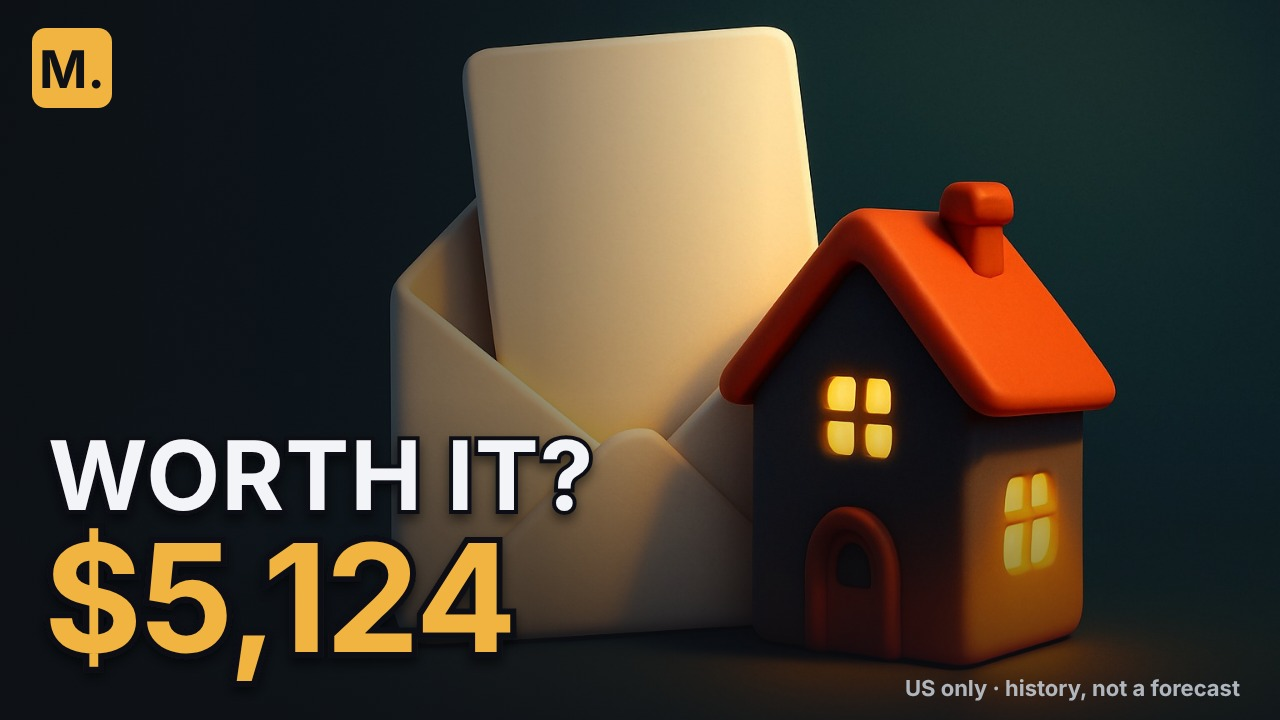
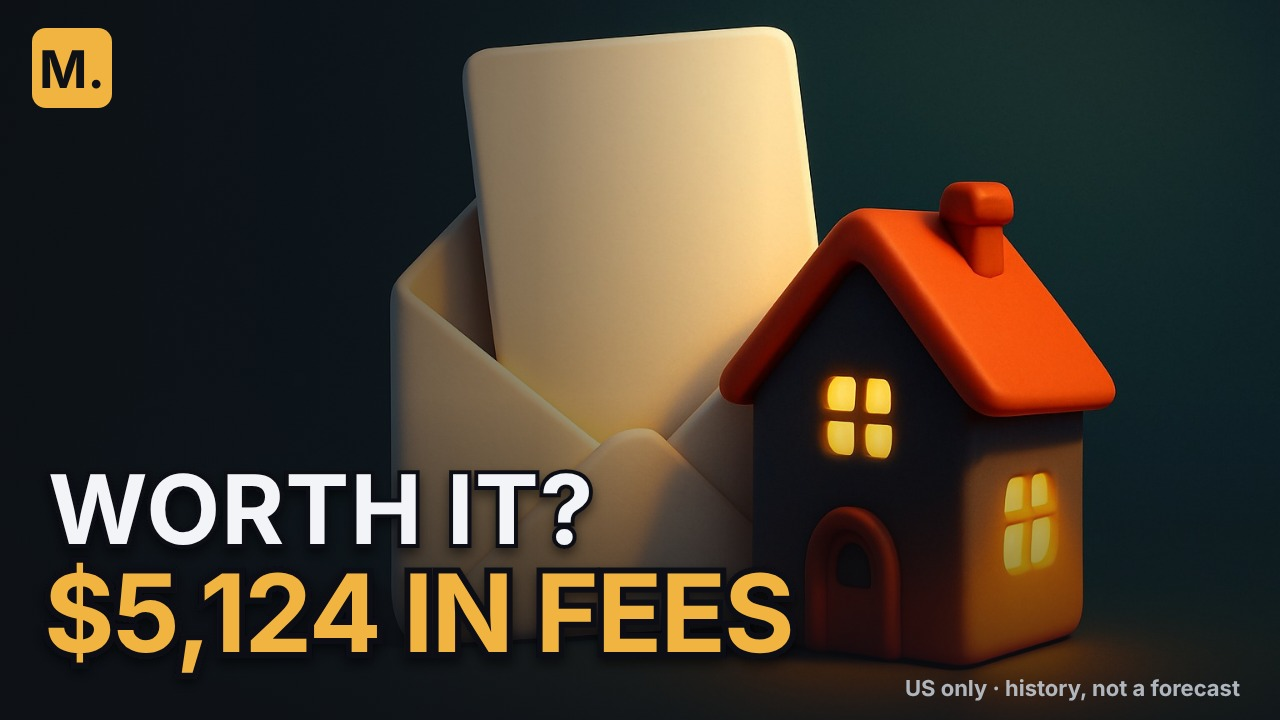
Đóng gói R1 · vòng 3: chữ ảnh bìa Tập 1 (RATE DROP NEEDED: 1.12; WORTH IT? $5,124 IN FEES) + cổng đóng gói D-015 vào playbook/episode.md §5 và prompts/CHAY-TAP-N.md
- tc1 ĐẠT 168×94; tc2 đạt cỡ chữ/tương phản nhưng 5 từ > luật 4 từ (chữ chủ dự án chỉ định, ghi TRƯỢT ở tờ duyệt); claim-risk 0; không tạo hình mới
- episode.md: thay 'Không thumbnail' bằng cổng G1 tiêu đề theo tìm kiếm + G3 duyệt 3 ảnh bìa; dòng M6, §1b mục 5–6, tiêu đề §5

Claude-Session: https://claude.ai/code/session_01G9ndDvyzHP52iB3ihxqp7v

Changed region(s): [[0.0312, 0.5806, 0.625, 0.9472]]

diff --git a/packaging/r1/ai/round2.py b/packaging/r1/ai/round2.py
@@ -16,8 +16,8 @@ SET = [
  ('ep008', 'b', 'RENT =', 'WASTED?', 'debt', 'câu hỏi của Nina (0:26) = tiêu đề T1; chữ màu là chữ, không thêm số (75.6 % đứng một mình dễ đọc thành "75.6 % lãng phí")'),
  ('ep008', 'b', 'WORST CASE', '-$82,385', 'debt', 'adv_2006-06 — giữ để đo'),
  ('ep008', 'a', 'RENT =', 'WASTED?', 'debt', 'như dòng 1, nền phố'),
- ('ep001', 'c', 'WORTH IT?', '$5,124', 'debt', 'Nora: hoá đơn refi $5,124 (median HMDA 2025, lời 0:33)'),
- ('ep001', 'a', 'WORTH IT?', '$5,124', 'debt', 'như trên, nền thư đề nghị'),
+ ('ep001', 'c', 'RATE DROP', 'NEEDED: 1.12', 'debt', 'vòng 3 (chủ dự án 17/10): Walt $115,000 cần lãi giảm 1.12 điểm để hoàn phí trong 3 năm (lời 7:10) — khớp tiêu đề T1'),
+ ('ep001', 'a', 'WORTH IT?', '$5,124 IN FEES', 'debt', 'vòng 3: hoá đơn refi của Nora $5,124 (median HMDA 2025, lời 0:33); 5 từ — chữ chủ dự án chỉ định, vượt luật ≤ 4 từ'),
  ('ep001', 'c', 'FEES BACK?', 'MONTH 30', 'debt', 'bản cũ — giữ để đo'),
  ('ep007', 'a', '15 OR 30?', '', 'debt', 'số đã ở tiêu đề; câu hỏi của Tessa (0:11)'),
  ('ep007', 'd', '15 OR 30?', '', 'debt', 'như trên'),
@@ -33,7 +33,7 @@ if __name__ == '__main__':
         n[ep] = n.get(ep, 0) + 1
         J.append(dict(id=f'{ep}-tc{n[ep]}', bg=str(H / 'raw' / f'{ep}-{v}.jpg'), out=str(tmp / f'{ep}-tc{n[ep]}.png'),
                       outBare=str(tmp / f'{ep}-tc{n[ep]}-bare.png'), cropY=80, l1=l1, l1Size=fit(l1, 96, 760 if l1 == 'BUYING POWER' else 700) if num else fit(l1, 130, 760), num=num,
-                      numSize=fit(num, 150, 620) if num else 1, pillar=pil, arrow=None, bgId=f'{ep}-{v}', note=note))
+                      numSize=fit(num, 150, 780 if num == '$5,124 IN FEES' else 620) if num else 1, pillar=pil, arrow=None, bgId=f'{ep}-{v}', note=note))
     (H / 'jobs-r2.json').write_text(json.dumps(J, indent=1, ensure_ascii=False))
     subprocess.run(['node', str(H / 'compose.js'), str(H / 'jobs-r2.json')], check=True, env=dict(os.environ, NODE_PATH='/opt/node-tools/node_modules'))
     R = []

diff --git a/packaging/r1/sheet_ai.py b/packaging/r1/sheet_ai.py
@@ -36,8 +36,8 @@ R2 = {c['id']: c for c in json.loads((H / 'ai/checks-r2.json').read_text())}
 SC2 = {'ep005-tc1': (9, 'số khớp tiêu đề "8 Years"; khiên + đồng hồ cát'), 'ep005-tc2': (9, 'như #1, đồng hồ cát rõ nhất ở 168 px'),
        'ep005-tc3': (8.5, 'bản "23 MONTHS" giữ để đo lệch/khớp số với tiêu đề'),
        'ep008-tc1': (9, 'đúng câu hỏi tiêu đề; chữ màu lớn đọc ngay ở 168 px'), 'ep008-tc2': (8.5, 'bản cũ, có số — giữ để đo'),
-       'ep008-tc3': (8, 'câu hỏi trên nền phố sáng/tối'), 'ep001-tc1': (8.5, '"worth it" = cụm tìm kiếm; $5,124 = hoá đơn của Nora'),
-       'ep001-tc2': (8, 'nền thư đề nghị (cảnh 0:33)'), 'ep001-tc3': (8, 'bản cũ — giữ để đo'),
+       'ep008-tc3': (8, 'câu hỏi trên nền phố sáng/tối'), 'ep001-tc1': (8.5, 'vòng 3: số khớp tiêu đề T1 (1.12 điểm của Walt); đồng hồ = tháng hoàn phí'),
+       'ep001-tc2': (8, 'vòng 3: "worth it" = cụm tìm kiếm; $5,124 = hoá đơn của Nora, nền thư đề nghị (0:33); 5 từ > luật 4 từ (chữ chủ dự án chỉ định)'), 'ep001-tc3': (8, 'bản cũ — giữ để đo'),
        'ep007-tc1': (8.5, 'câu hỏi đúng lựa chọn; chồng vàng = khoản dự phòng'), 'ep007-tc2': (8, 'Leo vs Tessa'), 'ep007-tc3': (7.5, 'lưới an toàn'),
        'ep006-tc1': (8, 'khung mất mát rõ; séc leo bậc thấp hơn thùng hàng'),
        'ep006-tc2': (7.5, 'nền nghiêm/thực tế cho khán giả lớn tuổi; tấm séc bị chữ che — giỏ hàng là chủ thể'), 'ep006-tc3': (7.5, 'bản cũ — giữ để đo')}

diff --git a/playbook/episode.md b/playbook/episode.md
@@ -16,7 +16,7 @@
 | **M3 Sản xuất nháp 540p** | nhà máy dựng thế giới, giọng (sinh một lần), nhạc bằng mã, SFX ghi âm thật, footage | nháp 540p theo cảnh | verify đoạn, đồng bộ ±0,2 s | — |
 | **M4 Hậu kỳ** | Editor: J/L-cut, nhịp, lặng · màu theo hồi · mix | nháp 540p cả tập | nhịp trên nháp | — |
 | **M5 Kiểm định trên nháp** | REVIEWER ý đồ (trước) · **checks đủ bộ, gồm bộ lấy mẫu trang** · cổng gốc · nhớ lại (Đạo diễn sáng tạo) · liền mạch (Giám sát) · lượt đạo diễn (chẩn đoán) · REVIEWER gói G2 | gói G2 + nháp 540p + 3 khung tĩnh 1080p của cảnh đinh | **≤ 2 vòng mỗi lỗi** (dưới) | **G2**: phiếu L3 trên nháp (`templates/L3.md`) |
-| **M6 Giao** | **1080p một lần** + **1 Short** · L1 kỹ thuật trên 1080p (độ phân giải, loudness, C14, SSIM so nháp ≥ 0,97) · gói chữ (tiêu đề G1, mô tả, chương, tag — **không thumbnail**) · giao hàng · merge `main` squash | master, Short, `HUONG-DAN-DANG.md` | lệch kỹ thuật thì sửa, không mở lại G2 | **G3** đăng |
+| **M6 Giao** | **1080p một lần** + **1 Short** · L1 kỹ thuật trên 1080p (độ phân giải, loudness, C14, SSIM so nháp ≥ 0,97) · gói chữ (tiêu đề G1, mô tả, chương, tag) + **3 ảnh bìa** (D-015, §5) · giao hàng · merge `main` squash | master, Short, `HUONG-DAN-DANG.md` | lệch kỹ thuật thì sửa, không mở lại G2 | **G3** đăng |
 
 - **Chủ dự án chạm G1, G2, G3** (+ lệnh "Chạy Tập N"). Ngoài cổng chỉ hỏi khi gặp ngoại lệ CHARTER §5. Mỗi lượt chạm ghi vào PLAN tập §5 kèm phút ước.
 - **Mỗi chặng một phiên ngắn** (M1–M2 → G1; M3–M5 → G2; M6 → G3). Đóng chặng: PLAN tập ≤ 1 trang theo `templates/PLAN-tap.md` (mục 1 = mốc kế), commit, push, dừng. Phiên kế mở bằng "Chạy Tập N" — không viết prompt riêng. Tệp lớn ngoài git còn ở container thì chạy tiếp trong phiên đó sau `/compact` (sửa D-011, T6-3); không thì dựng lại theo `episode.yaml`.
@@ -69,8 +69,8 @@ Nguồn: `market/` (`CHANNELS.md`, `topics/<đề tài>.md` = hồ sơ cầu, `R
 2. **C1:** logline **trả lời câu hỏi trọng số cao nhất** của hồ sơ cầu (câu 1 mục "Câu hỏi khán giả"); kiểm mù kể lại giữ nguyên.
 3. **C2 (WRITER):** §3 mục 11. **REVIEWER:** `quality-framework.md` §7 mục 10 (trả lời ≥ 3/5 câu hỏi).
 4. **Kiểm mù lời C2:** vai người đọc = **người hỏi** câu hỏi trọng số cao nhất, nhập vai từ một hoàn cảnh điển hình của hồ sơ (thay vai khán giả chung; câu hỏi cố định giữ nguyên, thêm một câu: *"Did the video answer the question you came with? Which part?"*). Ghi vào ý đồ `gates/C2-intent.md` trước khi chạy như mọi ý đồ.
-5. **G1:** gói thêm **1 dòng** "trả lời câu hỏi X, Y, Z (hồ sơ cầu)" + **3 video vượt trội cùng đề tài** (liên kết, kênh, nhãn ≥ 3× / ≥ 5×) — không thêm câu hỏi cho chủ dự án (`templates/G1.md`). **Từ Tập 7 (D-012):** thêm dòng **"neo: …; khác biệt: …"** (`python3 toolkit/market/anchors.py anchors --topic <id> --question "<câu hỏi khán giả, không nêu phương pháp>"`, P1 Việc 0) và **tiêu đề chốt ở G1** (D-013: không thumbnail).
-6. **M6:** mô tả + chương + tag do máy viết, kiểm `package_check.py` (§5). Không thumbnail (D-013).
+5. **G1:** gói thêm **1 dòng** "trả lời câu hỏi X, Y, Z (hồ sơ cầu)" + **3 video vượt trội cùng đề tài** (liên kết, kênh, nhãn ≥ 3× / ≥ 5×) — không thêm câu hỏi cho chủ dự án (`templates/G1.md`). **Từ Tập 7 (D-012):** thêm dòng **"neo: …; khác biệt: …"** (`python3 toolkit/market/anchors.py anchors --topic <id> --question "<câu hỏi khán giả, không nêu phương pháp>"`, P1 Việc 0) và **tiêu đề chốt ở G1** theo cổng tiêu đề tìm kiếm (D-015, §5).
+6. **M6:** mô tả + chương + tag do máy viết, kiểm `package_check.py` (§5); 3 ảnh bìa + 1 đối chứng mã theo cổng G3 (D-015, §5).
 7. **Sau phát hành:** vòng tự hiệu chỉnh nhãn cầu §10.
 
 ## 2. Model, effort, số agent
@@ -146,10 +146,14 @@ WRITER **đọc `playbook/story.md` trước tiên**, rồi theo các luật sau
 - Phối nhạc style C, đo độ lặp T2 (Tham khảo).
 - Lời theo cảnh: tên take theo hash chữ; kiểm từ khoá ASR ngay khi sinh; chỉ sinh lại cảnh đổi chữ.
 
-## 5. Gói phát hành và Short (D-013: 1 Short, 0 thumbnail; G2 không còn ChatGPT/thumbnail)
+## 5. Gói phát hành và Short (D-013: 1 Short; D-015: cổng đóng gói — tiêu đề theo tìm kiếm ở G1, 3 ảnh bìa ở G3)
 - **Tiêu đề:** chốt ở G1 (so cặp một vòng, Tham khảo); M6 dùng đúng tiêu đề G1 trừ khi chủ dự án đổi ở G2.
 - **Mô tả, chương, tag: máy viết ở M6** từ claims, `out/timeline.json` (chương = tên chương gợi hình, `story.md` §1b) và hồ sơ cầu; kiểm bằng `python3 toolkit/market/package_check.py episodes/epNNN --title "…" --description <tệp>` (S21, claim-risk, chương khớp timeline ±2 s, ≥ 10 s/chương) + REVIEWER không cần (gói không tới chủ dự án trước G3; lệch thì sửa trước G3). Khối `[METHOD AND SOURCES]` + ghi công CC BY (RIGHTS) trong mô tả.
-- **Không thumbnail** (chủ dự án 13/10): không brief ChatGPT, không khung tham chiếu, không ảnh. YouTube tự chọn khung; `HUONG-DAN-DANG.md` ghi 3 khung 1080p đề nghị (mốc giây) để chủ dự án đặt nếu muốn. `toolkit/package/{text,thumbs}.py`, `toolkit/market/brief.py` là công cụ phụ, chỉ chạy khi chủ dự án yêu cầu. Checks: A38.
+- **Cổng đóng gói (D-015, chủ dự án 17/10 — thay "Không thumbnail" của D-013):**
+  - **G1 — tiêu đề theo tìm kiếm:** 3 tiêu đề ≤ 60 ký tự; cụm tìm kiếm có bằng chứng (gợi ý tìm kiếm YouTube lưu kèm ngày, hoặc từ khoá hồ sơ cầu) nằm trong **40 ký tự đầu**; có số hoặc hệ quả cụ thể; không thuật ngữ khó; `package_check` (số có claim, khuyên/dự báo) = 0 lỗi; bảng xếp hạng + lý do. Tiêu đề có số kèm điều kiện → điều kiện ở **dòng 1 mô tả**. Mẫu: `packaging/R1.md` §1, `packaging/r1/titles.json`.
+  - **G3 — duyệt 3 ảnh bìa:** 3 ảnh 1280×720 + 1 đối chứng dựng bằng mã. Phần hình: mô hình ảnh OpenAI vẽ **nền không chữ** theo STYLE chung của kênh (`packaging/r1/ai/prompts.json`: minh hoạ 3D đất sét/đồ chơi, 1 chủ thể ~40 % khung bên phải, sáng, tương phản mạnh) hoặc khung phim (`packaging/r1/make.py`); **chữ ≤ 4 từ (đối lập/câu hỏi có ngữ cảnh) + 1 con số + nhận diện kênh ghép bằng mã** (`packaging/r1/ai/compose.js` qua `final.py`/`round2.py`). Mỗi tập 6 phương án → Claude chấm bằng mắt ở 360 px + 168×94, giữ 3; **kiểm máy 168×94 ĐẠT** (chữ hoa ≥ 9 px, tương phản WCAG ≥ 4,5:1 chữ trắng và chữ màu trụ); **claim-risk 0**; chữ trên ảnh bổ sung, không lặp tiêu đề, số khớp tiêu đề.
+  - **Cấm trên ảnh bìa:** người thật/nhận diện được, ảnh chụp chân thực người, logo thương hiệu, cảnh/hứa hẹn video không có, chữ do mô hình ảnh vẽ. **Không nhãn ILLUSTRATIVE trên ảnh bìa** (giữ trong video và mô tả). Video giữ quy tắc không nhà cung cấp video/ảnh AI.
+  - **Sổ:** mỗi ảnh AI một dòng `RIGHTS.md` §H (công cụ, model, prompt, ngày, chi thật — `packaging/r1/ai/ledger.jsonl`); trần chi ảnh theo lệnh chặng. Chủ dự án chọn ảnh mặc định + thứ tự **Test & Compare** ở G3; `HUONG-DAN-DANG.md` ghi bộ 3 ảnh + dòng 1 mô tả. Luật checks P01 (token share) chờ khiếu nại A50.
 - **Không tóm tắt AI ở G2.**
 - **1 Short 9:16 mỗi tập**, cắt từ nhịp then chốt đã qua checks (thường là số neo hoặc nghịch lý mở đầu), dựng một lần ở M6:
   - ≤ 60 s;

diff --git a/packaging/r1/DUYET-AI.md b/packaging/r1/DUYET-AI.md
@@ -22,8 +22,8 @@ Chủ dự án 17/10: rà khớp khán giả, một vòng sửa chữ (`ai/round
 
 | TC | cỡ thật (bấm mở) | điện thoại 360 px | 168×94 | điểm Claude | kiểm máy · nền · claim |
 |---|---|---|---|---|---|
-| **#1** | <a href="final/ep001-tc1.jpg"><img src="final/ep001-tc1.jpg" width="480"></a> | <img src="final/ep001-tc1.jpg" width="360"> | <img src="final/small/ep001-tc1.png" width="168" height="94"> | 8.5: "worth it" = cụm tìm kiếm; $5,124 = hoá đơn của Nora | ĐẠT: "WORTH IT? $5,124" · chữ 9.2/14.3 px · 9.15 / 10.2:1 · nền `ep001-c` · Nora: hoá đơn refi $5,124 (median HMDA 2025, lời 0:33) |
-| **#2** | <a href="final/ep001-tc2.jpg"><img src="final/ep001-tc2.jpg" width="480"></a> | <img src="final/ep001-tc2.jpg" width="360"> | <img src="final/small/ep001-tc2.png" width="168" height="94"> | 8: nền thư đề nghị (cảnh 0:33) | ĐẠT: "WORTH IT? $5,124" · chữ 9.2/14.3 px · 5.82 / 6.14:1 · nền `ep001-a` · như trên, nền thư đề nghị |
+| **#1** | <a href="final/ep001-tc1.jpg"><img src="final/ep001-tc1.jpg" width="480"></a> | <img src="final/ep001-tc1.jpg" width="360"> | <img src="final/small/ep001-tc1.png" width="168" height="94"> | 8.5: vòng 3: số khớp tiêu đề T1 (1.12 điểm của Walt); đồng hồ = tháng hoàn phí | ĐẠT: "RATE DROP NEEDED: 1.12" · chữ 9.2/9.2 px · 16.99 / 10.2:1 · nền `ep001-c` · vòng 3 (chủ dự án 17/10): Walt $115,000 cần lãi giảm 1.12 điểm để hoàn phí trong 3 năm (lời 7:10) — khớp tiêu đề T1 |
+| **#2** | <a href="final/ep001-tc2.jpg"><img src="final/ep001-tc2.jpg" width="480"></a> | <img src="final/ep001-tc2.jpg" width="360"> | <img src="final/small/ep001-tc2.png" width="168" height="94"> | 8: vòng 3: "worth it" = cụm tìm kiếm; $5,124 = hoá đơn của Nora, nền thư đề nghị (0:33); 5 từ > luật 4 từ (chữ chủ dự án chỉ định) | **TRƯỢT**: "WORTH IT? $5,124 IN FEES" · chữ 9.2/10.3 px · 6.79 / 6.2:1 · nền `ep001-a` · vòng 3: hoá đơn refi của Nora $5,124 (median HMDA 2025, lời 0:33); 5 từ — chữ chủ dự án chỉ định, vượt luật ≤ 4 từ |
 | **#3** | <a href="final/ep001-tc3.jpg"><img src="final/ep001-tc3.jpg" width="480"></a> | <img src="final/ep001-tc3.jpg" width="360"> | <img src="final/small/ep001-tc3.png" width="168" height="94"> | 8: bản cũ — giữ để đo | ĐẠT: "FEES BACK? MONTH 30" · chữ 9.2/10.9 px · 8.29 / 10.2:1 · nền `ep001-c` · bản cũ — giữ để đo |
 
 ## Tập 7 · 15 vs 30 — `p78Ca1OHTgM` · T1: 15 Year vs 30 Year Mortgage Paid in 15: $120 a Month More

diff --git a/playbook/prompts/CHAY-TAP-N.md b/playbook/prompts/CHAY-TAP-N.md
@@ -11,9 +11,9 @@ Chạy Tập {N}.
 1. Mở: `bash toolkit/verify.sh ep{NNN}` (nhánh chưa có → tạo từ `origin/main`). Đọc `CHARTER.md`, `playbook/episode.md`, `playbook/story.md`, `episodes/ep{NNN}/PLAN.md` (nếu có) — PLAN tập mục 1 ghi **mốc hiện tại M1–M6** và mục 6 ghi ≤ 8 tệp cần đọc.
 2. Có câu trả lời cổng → chép nguyên văn vào `gates/G{x}-answer.md`, sổ gu, `AUTHORSHIP.md`, ledger; commit + push.
 3. Chạy **đúng một chặng** tới điểm dừng chờ chủ dự án kế tiếp:
-   - chưa có tập → M1 + M2 → **G1** (kịch bản + vật thể/animatic + tiêu đề nháp);
+   - chưa có tập → M1 + M2 → **G1** (kịch bản + vật thể/animatic + 3 tiêu đề theo cổng tìm kiếm D-015: ≤ 60 ký tự, cụm tìm kiếm trong 40 ký tự đầu);
    - sau G1 → M3 + M4 + M5 → **G2** (phiếu L3 trên nháp; REVIEWER headless soát ý đồ kiểm định trước khi chạy M5);
-   - sau G2 → M6 (1080p một lần, 1 Short, gói chữ không thumbnail) → **G3**; sau G3 → merge `main` (squash), PLAN kênh.
+   - sau G2 → M6 (1080p một lần, 1 Short, gói chữ + **3 ảnh bìa theo cổng D-015**: nền AI không chữ hoặc khung phim, chữ ≤ 4 từ + 1 số ghép bằng mã, kiểm 168×94 ĐẠT, claim-risk 0, không ILLUSTRATIVE trên ảnh bìa, RIGHTS §H; `playbook/episode.md` §5) → **G3** (chủ dự án chọn ảnh mặc định + thứ tự Test & Compare); sau G3 → merge `main` (squash), PLAN kênh.
 4. Việc nặng: headless khoá Console (`toolkit/api.sh`), **0 agent con**; một vai = một lượt headless, thoát ngay. Lệnh > 1,5 h chạy tiếp được (`RESUME=1`, cache). Dừng tiến trình bằng PID đã lưu. **Commit + push sau mỗi bước lớn** (≤ 2 h không push).
 5. Mỗi lỗi ≤ 2 vòng; vòng chỉ được giữ khi vượt bản tốt nhất ngoài biên nhiễu; hết vòng → trước/sau vào gói. Line producer ghi sổ chi theo mốc; vượt 150 % ngân sách mốc → báo trong gói, không cắt bước chất lượng.
 6. Đóng chặng: PLAN tập ≤ 1 trang (mục 1 = mốc kế, mục 5 = 4 số token + đọc cache + lượt + $ + giờ máy + lượt chạm), REVIEWER headless soát gói G1 / gói G2, commit, push, báo đường dẫn gói. **Dừng.**

diff --git a/packaging/R1.md b/packaging/R1.md
@@ -159,3 +159,8 @@ Tập 9: mốc theo bản sau G2 (trước M6); SH1 đã duyệt ở G2 ("The pi
 - *Nhược:* Tập 3 (EE bond 20 năm) và Tập 6 (annuity, người hưu) nằm ngoài lõi — vẫn giữ được như đề tài "vòng ngoài" nhưng không ưu tiên; khán giả lớn tuổi (annuity) có thể cần phong cách ảnh khác (đang thử ở Tập 6-tc2).
 - *Tác động:* hồ sơ cầu `market/` và hàng đề tài xếp lại theo lõi; G1 thêm câu "người xem lõi gặp câu hỏi này lúc nào".
 - *Rủi ro:* dữ liệu khán giả hiện quá nhỏ (1 người đăng ký, Studio chưa có nhân khẩu học đáng tin) — lõi là giả thuyết; kiểm lại bằng nhân khẩu học Studio ở mốc 06/11 trước khi ghi vào CHARTER.
+
+### 7d. Vòng 3 — chữ Tập 1 + cổng D-015 vào playbook (chủ dự án 17/10)
+
+- **Tập 1:** tc1 **"RATE DROP / NEEDED: 1.12"** (khớp tiêu đề T1; Walt $115,000, hoàn phí trong 3 năm) — ĐẠT 168×94 (chữ 9,2/9,2 px; 16,99:1 / 10,2:1); tc2 **"WORTH IT? / $5,124 IN FEES"** — chữ 9,2/10,3 px, tương phản 6,79:1 / 6,2:1 ĐẠT, nhưng **5 từ > luật ≤ 4 từ** của D-015 (chữ chủ dự án chỉ định; giữ nguyên, ghi TRƯỢT ở tờ duyệt — chủ dự án chấp nhận ngoại lệ hoặc bỏ "IN FEES"); tc3 giữ "FEES BACK? MONTH 30". Claim-risk 0. Không tạo hình mới.
+- **Cổng đóng gói D-015** ghi vào `playbook/episode.md` §5 (thay đoạn "Không thumbnail"; dòng M6 §1, §1b mục 5–6) và `playbook/prompts/CHAY-TAP-N.md` (G1: 3 tiêu đề theo cổng tìm kiếm; M6/G3: 3 ảnh bìa).

diff --git a/packaging/r1/APPLY.md b/packaging/r1/APPLY.md
@@ -48,7 +48,7 @@ Dòng 1 mô tả Tập 8 (gợi ý): `In about 3 out of 4 of 307 start months si
 
 | Video | Title | Test & Compare |
 |---|---|---|
-| `OEVfD-ywzLc` | `Should I Refinance? A $115,000 Loan Needed a 1.12-Point Cut` | `ep001-tc1.jpg`, `ep001-tc2.jpg` (WORTH IT? $5,124), `ep001-tc3.jpg` (FEES BACK? MONTH 30) |
+| `OEVfD-ywzLc` | `Should I Refinance? A $115,000 Loan Needed a 1.12-Point Cut` | `ep001-tc1.jpg` (RATE DROP NEEDED: 1.12), `ep001-tc2.jpg` (WORTH IT? $5,124 IN FEES), `ep001-tc3.jpg` (FEES BACK? MONTH 30) |
 | `-AwfRUE6UTI` | `Private Student Loans: Fixed or Variable? Since 1954` | `ep002-1-aic.jpg`, `ep002-2-aia.jpg`, `ep002-3-aib.jpg` |
 | `dn6-0g2RvD0` | `Annuity With a 2% Raise: It Kept Up in 17 of 715 Stretches` | `ep006-tc1.jpg` (minh hoạ), `ep006-tc2.jpg` (nền nghiêm/thực tế) — BUYING POWER LOSES 19%?; `ep006-tc3.jpg` (STILL BUYS 80.7%) |
 
